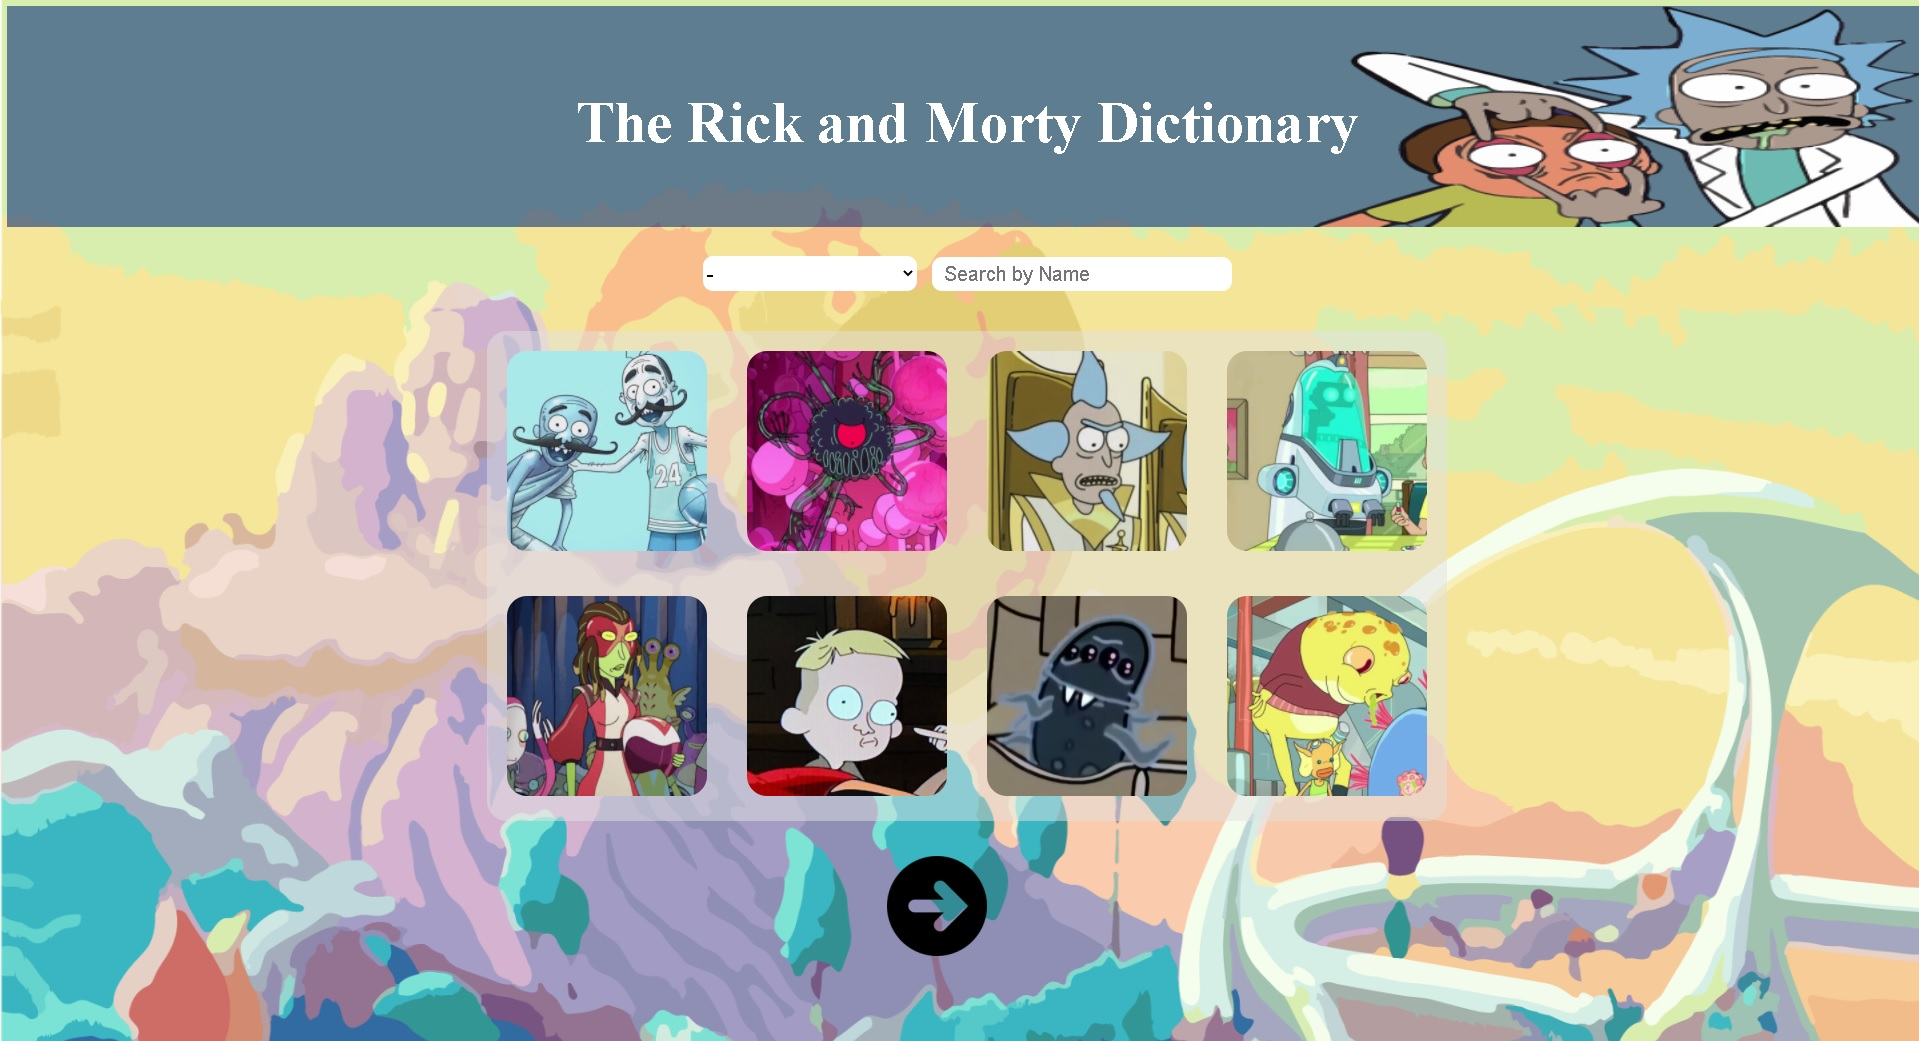
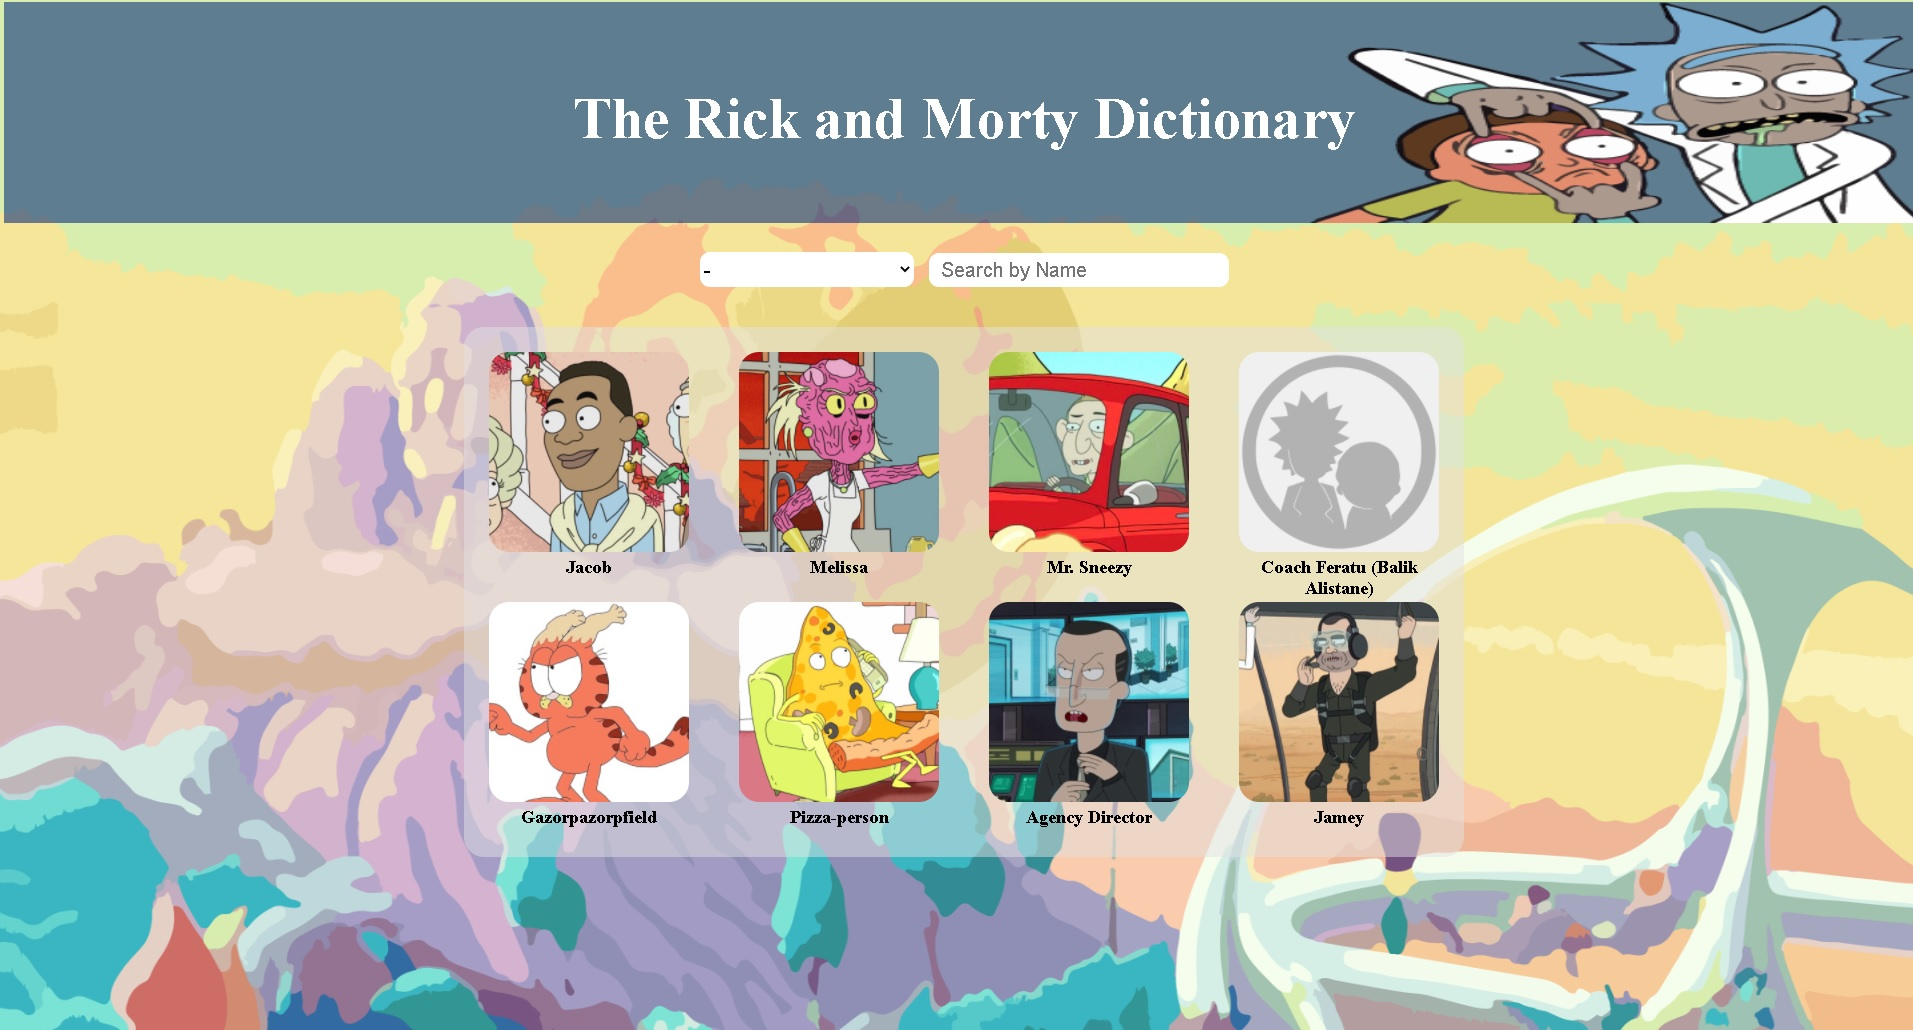
added labels to gallery
updated preview and added names to bottom of gallery pictures. changed CSS to work with name plates

diff --git a/app.css b/app.css
@@ -124,19 +124,70 @@ body{
     flex-direction: column;
     flex-wrap: wrap;
     border-radius: 20px;
+    align-content: center;
+    justify-content: center;
+    align-items: center;
 }
 
 #character-container div{
+    display: flex;
+    align-content: center;
+    justify-content: center;
+    align-items: center;
+    flex-direction: row;
 }
 
-#character-container div img{
-    margin: 20px;
+#character-container div div{
+    position:relative;
+    margin: 25px;
     border-radius: 20px;
 }
 
-/* #top-gallery, #bottom-gallery{
-    background-color: rgba(226, 226, 226, 0.5);
-} */
+#character-container div div img{
+    position: relative;
+    border-radius: 20px;
+}
+
+#character-container div div div{
+    position: absolute;
+    top: 205px;
+    z-index: 1;
+    color: black;
+    width: fit-content;
+    max-width: 200px;
+    font-weight: bold;
+    font-family: Rockwell;
+    font-size:18px;
+    border-radius: 3px;
+    padding-left: 1px;
+    padding-right: 1px;
+    text-align: center;
+    margin:0;
+}
+
+
+
+#top-gallery{
+    display: flex;
+    align-content: center;
+    justify-content: center;
+    align-items: center;
+    flex-direction: row;
+    flex-wrap: wrap;
+    height: fit-content;
+}
+
+#bottom-gallery{
+    display: flex;
+    align-content: center;
+    justify-content: center;
+    align-items: center;
+    flex-direction: row;
+    flex-wrap: wrap;
+    height: fit-content;
+    padding-bottom: 30px;
+}
+
 
 #browseNextGallery{
     display: flex;

diff --git a/index.js b/index.js
@@ -66,11 +66,22 @@ function getGalleryCharacter(){
 
 function createGalleryImg(){
     imageGalleryArray.forEach(image => {
+        const imageGDiv = document.createElement("DIV")
         const imageG = document.createElement("img")
+        const nameOverlay = document.createElement("DIV")
         imageG.src = `${image.image}`
         imageG.style = "height: 200px; width: 200px"
         imageG.id =`ig${image.id}`
-        topGallery.childElementCount >= 4?  bottomGallery.append(imageG):topGallery.append(imageG)
+        nameOverlay.textContent = image.name
+        if(topGallery.childElementCount >= 4){
+          bottomGallery.append(imageGDiv)
+          imageGDiv.append(imageG)
+          imageGDiv.append(nameOverlay)
+        } else{
+          topGallery.append(imageGDiv)
+          imageGDiv.append(imageG)
+          imageGDiv.append(nameOverlay)
+        }
         imageG.addEventListener("click", ()=> {
           resetSearchBar()
           clearGallery()
